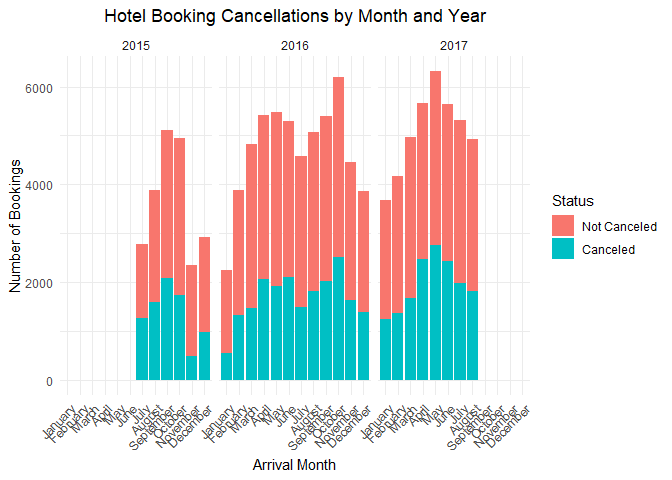
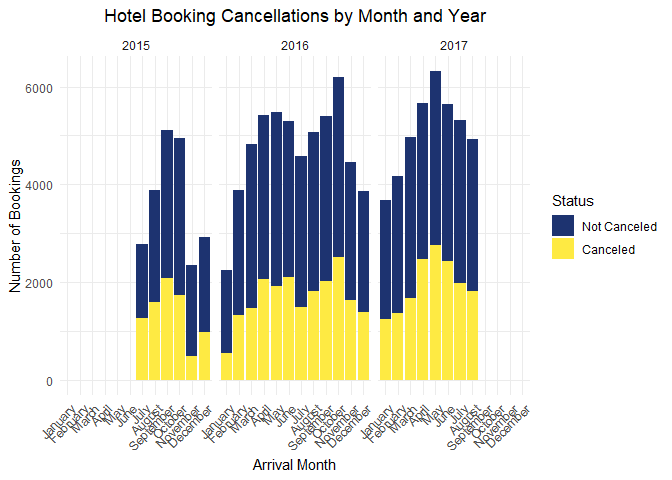
Cohesive color scheme added to match our presentation slides!

Changed region(s): [[0.1875, 0.125, 0.7188, 0.8125], [0.8125, 0.4375, 0.875, 0.5625]]

diff --git a/README.md b/README.md
@@ -278,6 +278,7 @@ ggplot(data, aes(x = arrival_date_month, fill = hotel)) +
   geom_bar(position = "dodge") +
   facet_wrap(~ arrival_date_year) +
   labs(title = "Monthly Bookings: Resort vs City Hotel", x = "Month", y = "Bookings") +
+   scale_fill_manual(values = c("City Hotel" = "#1d3370", "Resort Hotel" = "#feea43")) +
   theme_minimal() +
   theme(axis.text.x = element_text(angle = 45, hjust = 1),
         plot.title = element_text(hjust = 0.5))
@@ -335,6 +336,7 @@ ggplot(cancellation_summary, aes(x = arrival_date_month, y = bookings, fill = is
   facet_wrap(~ arrival_date_year) +
   labs(title = "Hotel Booking Cancellations by Month and Year",
        x = "Arrival Month", y = "Number of Bookings", fill = "Status") +
+   scale_fill_manual(values = c("Not Canceled" = "#1d3370", "Canceled" = "#feea43")) +
   theme_minimal() +
   theme(axis.text.x = element_text(angle = 45, hjust = 1),
         plot.title = element_text(hjust = 0.5))
@@ -418,6 +420,7 @@ ggplot(data, aes(x = lead_time, fill = factor(is_canceled))) +
   geom_histogram(position = "fill", bins = 50) +
   labs(title = "Cancellation Rate by Lead Time", x = "Lead Time (days)",
        y = "Proportion", fill = "Canceled") +
+   scale_fill_manual(values = c("0" = "#1d3370", "1" = "#feea43")) +
   theme_minimal() + 
   theme(
     plot.title = element_text(hjust = 0.5)
@@ -481,10 +484,14 @@ Here we examine whether the fact that a guest is a returning guest or
 not affects the cancellation rate.
 
 ``` r
-ggplot(data, aes(x = factor(is_repeated_guest), y = is_canceled, fill = is_repeated_guest)) +
+ggplot(data, aes(x = factor(is_repeated_guest), y = is_canceled, fill = factor(is_repeated_guest))) +
   stat_summary(fun = mean, geom = "bar", width = 0.6) +
   scale_x_discrete(labels = c("New Guest", "Returning Guest")) +
   scale_y_continuous(labels = scales::percent_format(accuracy = 1)) +
+  scale_fill_manual(
+    values = c("0" = "#1d3370", "1" = "#feea43"),
+    labels = c("New Guest", "Returning Guest")
+  ) +
   labs(
     title = "Cancellation Rate by Returning Guest Status",
     x = "Guest Status",
@@ -492,7 +499,7 @@ ggplot(data, aes(x = factor(is_repeated_guest), y = is_canceled, fill = is_repea
   ) +
   theme_minimal() +
   theme(
-        legend.position = "none",
+    legend.position = "none",
     plot.title = element_text(hjust = 0.5)
   )
 ```
@@ -510,6 +517,8 @@ more frequent and consistent customers.
 The graph shows the relationships from customer type to cancellations.
 
 ``` r
+cust_colors <- colorRampPalette(c("#1d3370", "#feea43"))(4)
+
 data %>%
   group_by(customer_type) %>%
   summarise(
@@ -523,6 +532,7 @@ data %>%
   geom_text(aes(label = percent(cancel_rate, accuracy = 0.1)), 
             vjust = -0.5, size = 4) +
   scale_y_continuous(labels = percent_format()) +
+  scale_fill_manual(values = cust_colors) +
   labs(
     title = "Cancellation Rate by Customer Type",
     x = "Customer Type",
@@ -549,6 +559,8 @@ This graph demonstrates the relationship between market segments and
 cancellation rates.
 
 ``` r
+market_colors <- colorRampPalette(c("#1d3370", "#feea43"))(7)
+
 data %>%
   filter(market_segment != "Undefined") %>%
   group_by(market_segment) %>%
@@ -557,19 +569,24 @@ data %>%
     cancel_rate = mean(is_canceled),
     .groups = "drop"
   ) %>%
-  ggplot(aes(x = reorder(market_segment, -cancel_rate), y = cancel_rate, fill = market_segment)) +
+  arrange(desc(cancel_rate)) %>%
+  mutate(market_segment = factor(market_segment, levels = market_segment)) %>%
+  ggplot(aes(x = market_segment, y = cancel_rate, fill = market_segment)) +
   geom_bar(stat = "identity") +
   geom_text(aes(label = percent(cancel_rate, accuracy = 0.1)),
             vjust = -0.5, size = 4) +
   scale_y_continuous(labels = percent_format()) +
+  scale_fill_manual(values = market_colors) +
   labs(
     title = "Cancellation Rate by Market Segment",
     x = "Market Segment",
     y = "Cancellation Rate"
   ) +
   theme_minimal() +
-  theme(legend.position = "none",
-    plot.title = element_text(hjust = 0.5)
+  theme(
+    legend.position = "none",
+    plot.title = element_text(hjust = 0.5),
+    axis.text.x = element_text(angle = 45, hjust = 1)
   )
 ```
 
@@ -612,6 +629,7 @@ data %>%
     x = "Hotel Type",
     y = "Cancellation Rate"
   ) +
+  scale_fill_manual(values = c("City Hotel" = "#1d3370", "Resort Hotel" = "#feea43")) +
   theme_minimal() +
   theme(legend.position = "none",
     plot.title = element_text(hjust = 0.5)
@@ -694,7 +712,7 @@ data %>%
   group_by(adr_bin) %>%
   summarise(bookings = n()) %>%
   ggplot(aes(x = adr_bin, y = bookings)) +
-  geom_bar(stat = "identity") +
+  geom_bar(stat = "identity", fill="#1d3370") +
   labs(title = "Bookings by ADR Range", x = "ADR Bin", y = "Number of Bookings") +
   theme(axis.text.x = element_text(angle = 45, hjust = 1),plot.title = element_text(hjust = 0.5))
 ```
@@ -715,8 +733,8 @@ cleaned_data <- data %>%
   filter(!is.na(adr), !is.na(lead_time), adr <= 1000)
 
 ggplot(cleaned_data, aes(x = lead_time, y = adr)) +
-  geom_point(alpha = 0.15) +  
-  geom_smooth(method = "lm", color = "red", se = FALSE) +  
+  geom_point(alpha = 0.15, color="#1d3370") +  
+  geom_smooth(method = "lm", color = "#feea43", se = FALSE) +  
   labs(
     title = "Relationship Between Lead Time and Average Daily Rate (ADR)",
     x = "Lead Time (Days)",
@@ -806,8 +824,8 @@ filtered_data <- data %>%
   filter(adr <= 1000, total_guests > 0, total_guests < 20)
 
 ggplot(filtered_data, aes(x = total_guests, y = adr)) +
-  geom_jitter(alpha = 0.2) +
-  geom_smooth(method = "lm", se = FALSE, color = "red") +
+  geom_jitter(alpha = 0.2, color="#1d3370") +
+  geom_smooth(method = "lm", se = FALSE, color = "#feea43") +
   labs(title = "ADR vs. Number of Guests",
        x = "Total Number of Guests",
        y = "Average Daily Rate (ADR)") +
@@ -839,6 +857,7 @@ filtered_data <- data %>%
 # Box plot of ADR by agent status
 ggplot(filtered_data, aes(x = has_agent, y = adr, fill = has_agent)) +
   geom_boxplot(outlier.alpha = 0.2) +
+  scale_fill_manual(values = c("Has Agent" = "#1d3370", "No Agent" = "#feea43")) +
   labs(
     title = "ADR Comparison (ADR < 1000): Bookings With vs Without Agent",
     x = "Agent Status",
@@ -873,7 +892,7 @@ guest_counts <- data %>%
 
 # Plot 
 ggplot(guest_counts, aes(x = factor(number_of_guests), y = booking_count)) +
-  geom_bar(stat = "identity", fill="blue") +
+  geom_bar(stat = "identity", fill="#1d3370") +
   geom_text(aes(label = booking_count), vjust = -0.5, size = 3) +
   labs(
     title = "Number of Bookings by Guest Count",
@@ -911,7 +930,7 @@ group_cancellation <- data %>%
   )
 
 ggplot(group_cancellation, aes(x = factor(number_of_guests), y = cancellation_rate)) +
-  geom_col(fill = "orange") +
+  geom_col(fill = "#1d3370") +
   labs(title = "Cancellation Rate by Group Size", x = "Group Size (Number of Guests)", y = "Cancellation Rate") +
   theme_minimal() + theme(plot.title = element_text(hjust = 0.5))
 ```
@@ -937,7 +956,7 @@ group_behavior <- data %>%
 
 # Plot
 ggplot(group_behavior, aes(x = factor(number_of_guests), y = avg_lead_time)) +
-  geom_col(fill = "purple") +
+  geom_col(fill = "#feea43") +
   labs(title = "Average Lead Time by Group Size", x = "Group Size", y = "Average Lead Time (days)") +
   theme_minimal() + theme(plot.title = element_text(hjust = 0.5))
 ```
@@ -965,8 +984,8 @@ data_grouped <- data_non_canceled %>%
 
 # Plot with point size representing frequency
 ggplot(data_grouped, aes(x = number_of_guests, y = required_car_parking_spaces, size = count)) +
-  geom_point(alpha = 0.6, color = "blue") +
-  geom_smooth(method = "lm", color = "orange", se = FALSE, show.legend = FALSE) +
+  geom_point(alpha = 0.6, color = "#1d3370") +
+  geom_smooth(method = "lm", color = "#feea43", se = FALSE, show.legend = FALSE) +
   scale_size_continuous(range = c(1, 8)) +
   labs(
     title = "Number of Guests vs Car Parking Spots",
@@ -1003,7 +1022,7 @@ guest_parking_summary <- data_non_canceled %>%
 
 # Plot
 ggplot(guest_parking_summary, aes(x = factor(number_of_guests), y = booking_count)) +
-  geom_bar(stat = "identity", fill = "blue") +
+  geom_bar(stat = "identity", fill = "#1d3370") +
   geom_text(aes(label = paste0("Avg Spots: ", round(avg_parking_spots, 3))), 
             vjust = -0.5, size = 3) +
   labs(
@@ -1039,8 +1058,8 @@ filtered_data <- data %>%
 
 # Plot
 ggplot(filtered_data, aes(x = number_of_guests, y = total_nights)) +
-  geom_jitter(alpha = 0.2, color = "blue", width = 0.2) +
-  geom_smooth(method = "lm", se = FALSE, color = "orange") +
+  geom_jitter(alpha = 0.2, color = "#1d3370", width = 0.2) +
+  geom_smooth(method = "lm", se = FALSE, color = "#feea43") +
   labs(
     title = "Number of Guests vs Nights Stayed",
     x = "Number of Guests",
@@ -1080,7 +1099,7 @@ data %>%
   count(booking_changes) %>%
   filter(n > 50) %>%
   ggplot(aes(x = as.factor(booking_changes), y = n)) +
-  geom_bar(stat = "identity", fill = "pink") +
+  geom_bar(stat = "identity", fill = "#1d3370") +
   labs(
     title = "Distribution of Booking Changes",
     x = "Number of Changes",
@@ -1110,7 +1129,7 @@ data %>%
   ) %>%
   filter(total > 10) %>%
   ggplot(aes(x = as.factor(booking_changes), y = cancel_rate)) +
-  geom_bar(stat = "identity", fill = "orange") +
+  geom_bar(stat = "identity", fill = "#feea43") +
   geom_text(aes(label = scales::percent(cancel_rate, accuracy = 0.1)), 
             vjust = -0.5, size = 4) +
   scale_y_continuous(labels = scales::percent_format()) +
@@ -1142,6 +1161,7 @@ This shows booking changes by hotel type.
 ``` r
 ggplot(data, aes(x = hotel, y = booking_changes, fill = hotel)) +
   stat_summary(fun = mean, geom = "bar", width = 0.6, show.legend = FALSE) +
+  scale_fill_manual(values = c("City Hotel" = "#1d3370", "Resort Hotel" = "#feea43")) +
   labs(
     title = "Average Number of Booking Changes by Hotel Type",
     x = "Hotel Type",
@@ -1171,7 +1191,7 @@ data %>%
   group_by(lead_time_bin) %>%
   summarise(avg_booking_changes = mean(booking_changes), .groups = 'drop') %>%
   ggplot(aes(x = lead_time_bin, y = avg_booking_changes)) +
-  geom_bar(stat = "identity") +
+  geom_bar(stat = "identity", fill="#1d3370") +
   labs(
     title = "Average Booking Changes by Lead Time",
     x = "Lead Time",
@@ -1203,6 +1223,7 @@ customer is a returning guest and the number of booking changes made.
     x = "Guest Status",
     y = "Average Booking Changes"
   ) +
+   scale_fill_manual(values = c("0" = "#1d3370", "1" = "#feea43")) +
   theme_minimal() +
   theme(legend.position = "none",
     plot.title = element_text(hjust = 0.5)
@@ -1221,6 +1242,8 @@ The following graph shows customer type vs number of booking changes
 made.
 
 ``` r
+cust_colors <- colorRampPalette(c("#1d3370", "#feea43"))(4)
+
 # this reorders so that they go lowest to highest average num of booking changes
 data <- data %>%
   group_by(customer_type) %>%
@@ -1236,6 +1259,7 @@ ggplot(data, aes(x = customer_type, y = booking_changes, fill = customer_type)) 
     x = "Customer Type",
     y = "Average Booking Changes"
   ) +
+  scale_fill_manual(values = cust_colors) +
   theme_minimal() +
   theme(legend.position = "none",
     plot.title = element_text(hjust = 0.5)
@@ -1256,6 +1280,8 @@ Now we investigate the relationship between deposit type and number of
 booking changes.
 
 ``` r
+deposit_colors <- colorRampPalette(c("#1d3370", "#feea43"))(3)
+
 data %>%
   group_by(deposit_type) %>%
   summarise(
@@ -1272,6 +1298,7 @@ data %>%
     x = "Deposit Type",
     y = "Average Booking Changes"
   ) +
+  scale_fill_manual(values = deposit_colors) +
   theme_minimal() +
   theme(legend.position = "none",
     plot.title = element_text(hjust = 0.5)
@@ -1293,14 +1320,18 @@ To answer this question we observe the country of origin of bookings
 made.
 
 ``` r
+country_colors <- colorRampPalette(c("#1d3370", "#feea43"))(10)
+
 country_counts <- data %>%
   group_by(country) %>%
   summarise(count = n()) %>%
   arrange(desc(count)) %>%
-  top_n(10, count)  # limit to top 10 countries or else the graph is too big 
+  top_n(10, count) %>%  # limit to top 10 countries or else the graph is too big 
+  mutate(country = factor(country, levels = country)) #this is what allowed me to do the gradient in order, had to make it a factor
 
 ggplot(country_counts, aes(x = reorder(country, -count), y = count, fill = country)) +
   geom_bar(stat = "identity") +
+  scale_fill_manual(values = country_colors) +
   theme_minimal() +
   labs(
     title = "Top Countries by Number of Hotel Bookings",
